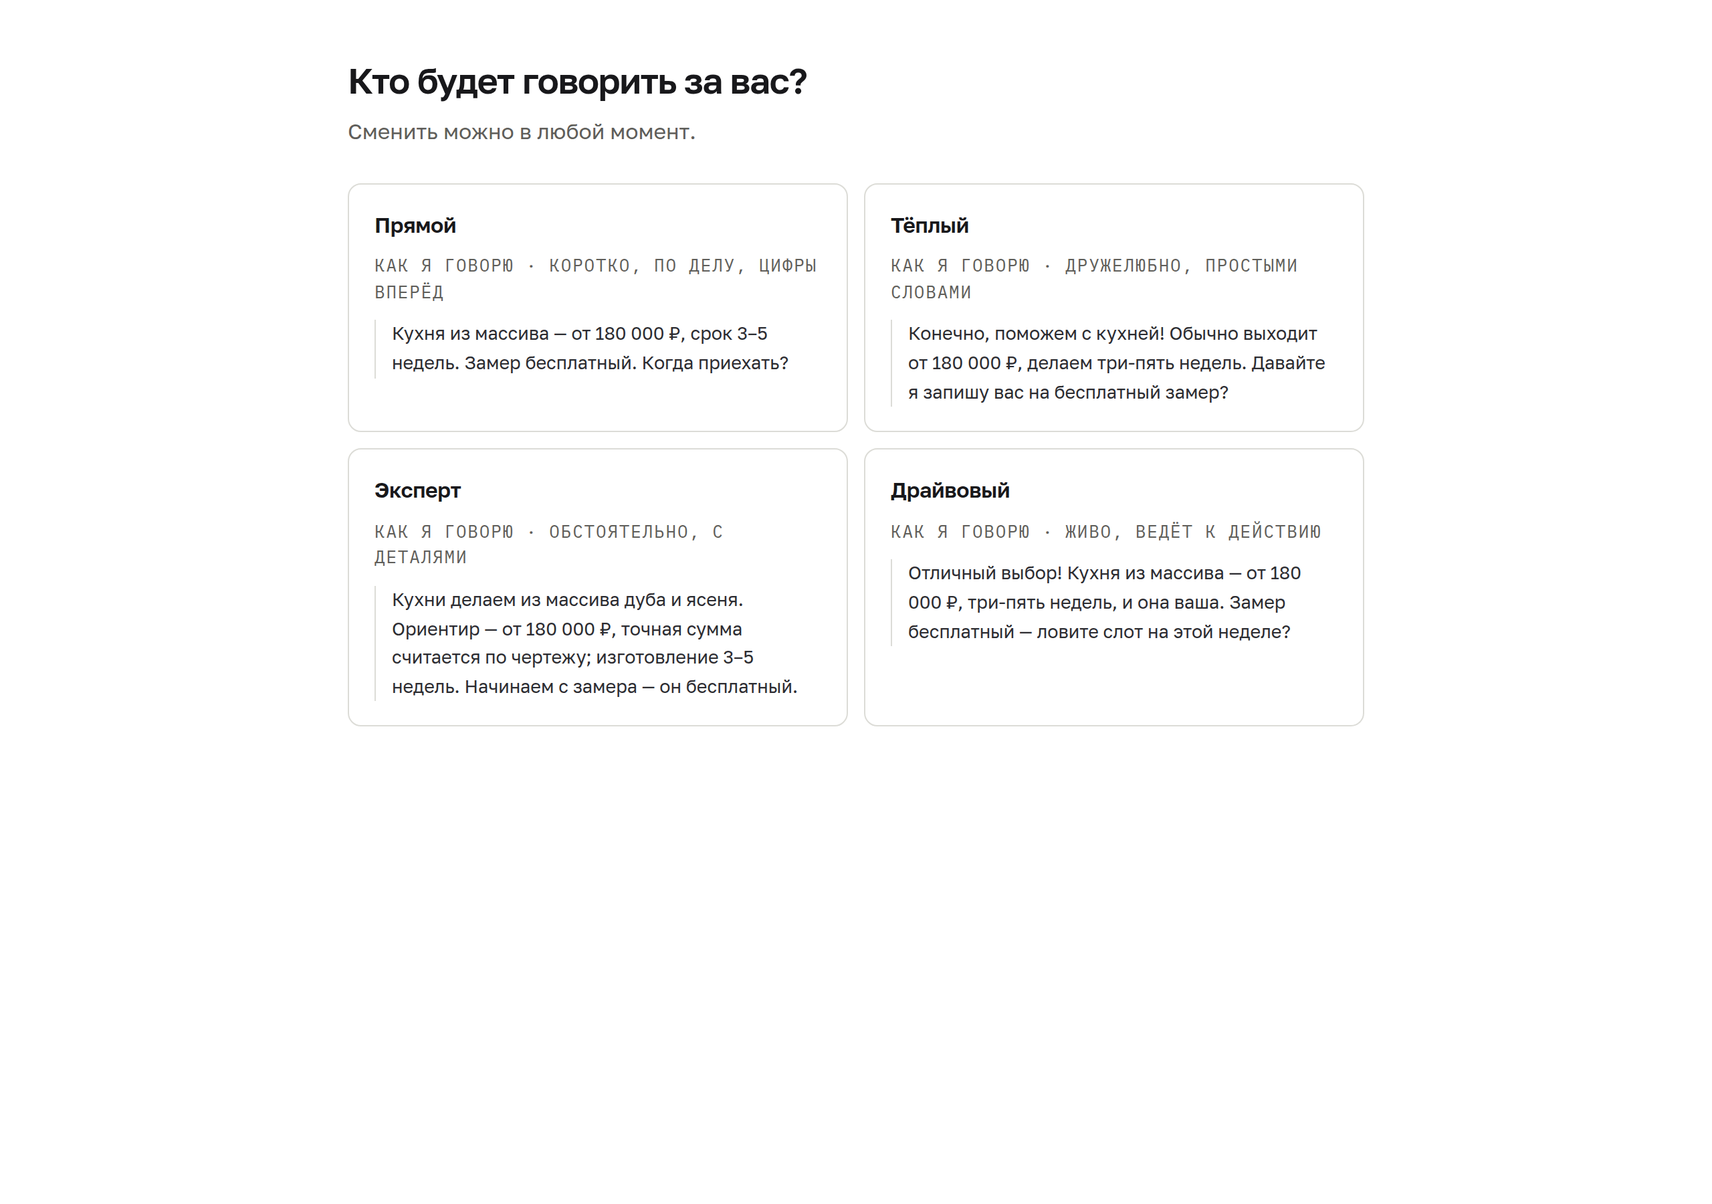
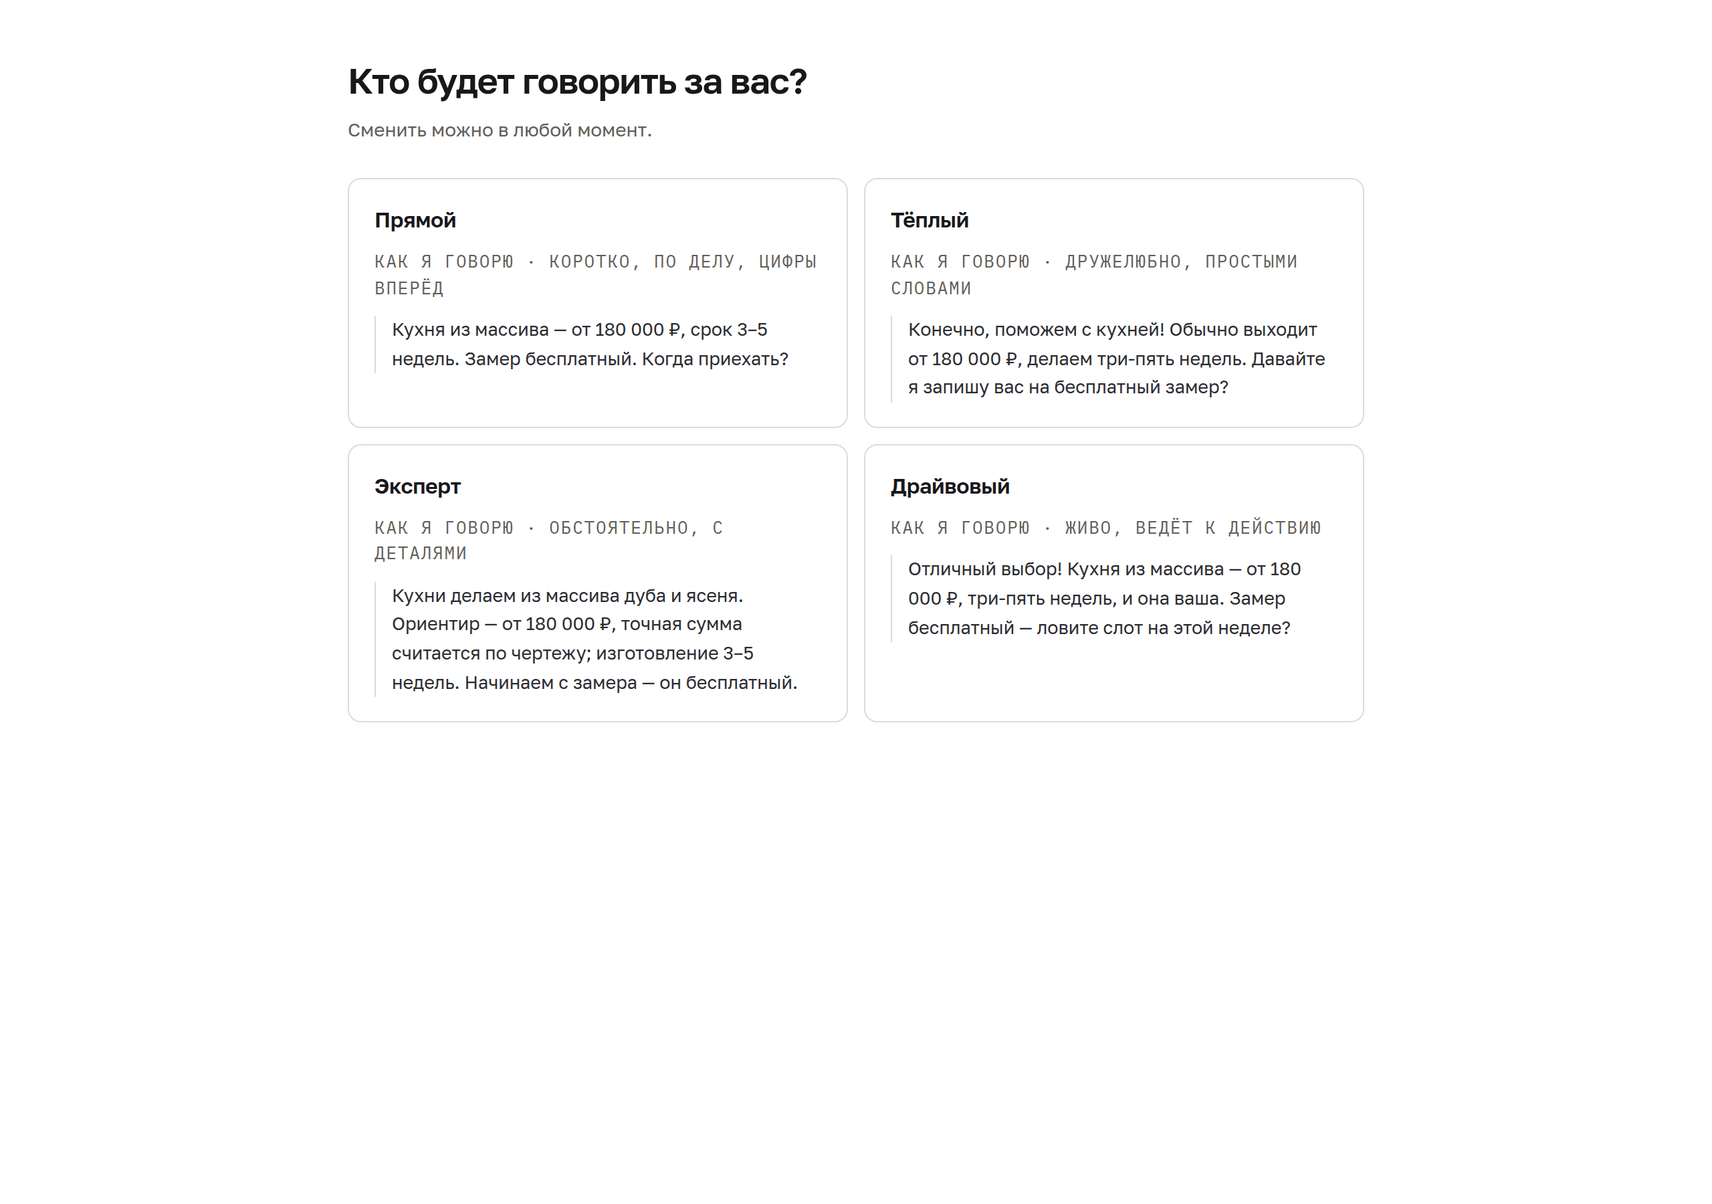
Аудит прода: 26 пунктов одним заходом
Сквозные: порог 40px задан каждому контролу отдельно — круглая кнопка снова
круг 40×40, «повторить» и «Скопировать» держат форму макета, chip-test
получил display; серая лестница развёрнута обратно в четыре ступени;
волоски подтянуты к макету (#E6E6E1/#DCDCD7/#CECEC9); логотип 12.5px.

/start: подпись под заголовком 14px; карточка тона — кнопка с видимым
фокусом, экран проходим с клавиатуры; лента разговора прижата к низу —
короткий диалог стоит над полем, а не висит в пустоте.

Паспорт: нативный select заменён ghost-кнопкой с выбором ключа текстовыми
чипами; карточка «Опубликовано» собрана из четырёх секций (статус,
тест-драйв, «раздайте ссылку» с адресом mono 17px и четырьмя каналами,
«что будет дальше»); у пометки источника точка-маркер и разведённые цвета;
пробел стал строкой с тегом-меткой; зона публикации — кнопка крупнее и в
одну строку с подписью; шапка без лишнего волоска, подзаголовок 52ch.

Чат: чипы приходят с каждым ответом, а не только с приветствием; сбой сети
не стирает пузырь — под ним «Не отправилось · повторить»; карточка контакта
начинается с обещания из факта agent.cta; «контакт передан» — кикером с
полным текстом; плашка лимита громче; золото .ai в шапке.

/gb-debug: мобильные карточки вместо семиколоночной таблицы (горизонтального
скролла нет); факты контекста — mono-чипы с ключами вместо числа;
tabular-nums на счётчиках; пульс у строки обновления; gbfade на вход строки;
заголовки и формат чисел по канону.
[…]

Changed region(s): [[0.2188, 0.1556, 0.7812, 0.5911], [0.2188, 0.1556, 0.4688, 0.3111], [0.1875, 0.0933, 0.4062, 0.1244]]

diff --git a/audit/latest.md b/audit/latest.md
@@ -1,0 +1,92 @@
+# Вердикт-лист по аудиту прода · 01.08
+
+Аудит от 31.07, 35 пунктов. Работа шла по разделу «Порядок работ» (01–04);
+блок 05 — вопросы владельцу, собраны внизу. Коммит с правками — «Аудит
+прода: 26 пунктов одним заходом» в `gb-agent` (далее — «коммит аудита»).
+Скрины всех экранов после правок — в `shots/`, кегли на каждом промерены
+браузером.
+
+## Сквозные
+
+| № | Пункт | Вердикт |
+|---|---|---|
+| A1 | порог 40px ломает контролы | **исправлено · коммит аудита** — общий селектор снят; `.send-round` 40×40 (круг остался кругом), «повторить» и «Скопировать» держат форму и добирают зону паддингом, `.btn-skip` в списке, `.chip-test` получил `display:inline-flex` |
+| A2 | серая лестница схлопнулась | **исправлено · коммит аудита** — `--text-mute` разведён (#66655F), «с сайта» #5F5E5A / «сказали вы» #6E6D68, лестница снова из четырёх ступеней |
+| A3 | волоски светлее макета | **исправлено · коммит аудита** — `--hair` #E6E6E1, `--bd-card` #DCDCD7, `--bd-control` #CECEC9; C3 и C5 закрылись этим же |
+| A4 | логотип 13.5 вместо 12.5 | **исправлено · коммит аудита** — 12.5px/500; проверка кеглей исключает логотип из порога 13px осознанно |
+| A5 | scrollIntoView | **исправлено · предыдущий коммит** (фикс автоскролла): ref на саму ленту, `el.scrollTop = el.scrollHeight`, чат-экраны прижаты к вьюпорту — готово к виджету. Проверено браузером на длинном диалоге |
+
+## /start · выбор тона
+
+| № | Пункт | Вердикт |
+|---|---|---|
+| B1 | подстрока 16px | **исправлено · коммит аудита** — 14px, `--text-2` |
+| B2 | карточка тона не с клавиатуры | **исправлено · коммит аудита** — `<button type="button">`, вид тот же, фокус `outline: 2px solid #3450C4; offset 2px` |
+| B3 | блок незаконченной карточки не нарисован | **вопрос владельцу** — где показывать: над выбором тона (рекомендация дизайнера) или снизу. Код готов принять любой ответ |
+
+## /start · разговор
+
+| № | Пункт | Вердикт |
+|---|---|---|
+| C1 | лента не прижата к низу | **исправлено · коммит аудита** — колонке `min-height:100%` + `justify-content:flex-end`; короткий разговор стоит над полем |
+| C2 | «Проверить агента» выпадает из ряда | **исправлено · коммит аудита** — `display:inline-flex; align-items:center` |
+| C3 | граница дока и трек прогресса | **исправлено** через A3 (токены) |
+| C4 | чипсы бледнее макета | **исправлено · коммит аудита** — бордер #CECEC9, текст #2C2C31 |
+| C5 | волосок шапки, пузырь, fail-line | **исправлено** — `.hair-v` через `--bd-card` #DCDCD7, `--bd-user` #E2E2DD (регистр причёсан), `.fail-line` #6F5416 |
+
+## Паспорт
+
+| № | Пункт | Вердикт |
+|---|---|---|
+| D1 | нативный select «Добавить» | **исправлено · коммит аудита** — ghost-кнопка; группа с одним ключом добавляет сразу, с несколькими — раскрывает выбор текстовыми чипами (не нативный select). Если дизайнер нарисует свой выбор ключа — заменю на его вёрстку |
+| D2 | карточка «Опубликовано» — четверть | **исправлено · коммит аудита** — четыре секции с волосками: статус · тест-драйв (текст аудита дословно) · «раздайте ссылку» (адрес mono 17px, «Скопировать», четыре канала дословно) · «что будет дальше» (три строки за левым волоском). Тексты «что будет дальше» написаны по описанию аудита — дизайнеру сверить формулировки |
+| D3 | нет точки-маркера источника | **исправлено · коммит аудита** — точка 5px в цвет пометки, `display:flex; gap:5px` |
+| D4 | значение факта 17px | **спорно** — владелец в задании от 31.07 явно попросил «значения фактов в паспорте 17px»; аудит предлагает 14.5 или пересчёт всей шкалы. Оставлено 17px до решения владельца с дизайнером |
+| D5 | подзаголовок на всю колонку | **исправлено · коммит аудита** — `max-width:52ch`, `margin-top:9px` |
+| D6 | лишний волосок под шапкой | **исправлено · коммит аудита** — граница снята; отступы страницы 20/22 уже стояли |
+| D7 | карточка-пробел в столбик | **исправлено · коммит аудита** — строка `space-between`, тег uppercase + трекинг .08em, бордер #E6E6E1, паддинг 12/14 |
+| D8 | зона публикации | **исправлено · коммит аудита** — кнопка и подпись в одну строку, кнопка 12/24 и 14px, отступы 40/20 |
+| D9 | «Удалить» не нарисована | **вопрос владельцу** — удалять факт совсем или очищать в пробел (безопаснее, уже вписано в систему). До ответа кнопка остаётся как есть |
+
+## Чат агента
+
+| № | Пункт | Вердикт |
+|---|---|---|
+| E1 | чипы выбрасываются после приветствия | **исправлено · коммит аудита** — `chips: data.chips` в каждом сообщении агента |
+| E2 | сбой сети стирает реплику | **исправлено · коммит аудита** — пузырь остаётся, под ним «Не отправилось · повторить»; повтор не плодит второй пузырь и не задваивает счётчик |
+| E3 | карточка контакта без обещания | **исправлено · коммит аудита** — строка-обещание 13.5px из факта карточки `agent.cta` (не зашита; нет факта — строки нет, честно), primary на всю ширину, mono-подпись по центру |
+| E4 | «контакт передан» | **исправлено · коммит аудита** — `.kicker`, линейка 1px, средняя часть текста вернулась (подставляется из `agent.cta`, фолбэк «он свяжется с вами») |
+| E5 | плашка лимита тише | **исправлено · коммит аудита** — 14px основным цветом, радиус 10, паддинг 15/17 |
+| E6 | золото «.ai» и мелочи шапки | **исправлено · коммит аудита** — .ai золотом в шапке чата, кикер предпросмотра #8A6A1F, letter-spacing заголовка, ссылка футера видима |
+| E7 | виджет-размещение | **вопрос владельцу** — нужен срок. A5 (прокрутка) уже готов под виджет |
+
+## /gb-debug
+
+| № | Пункт | Вердикт |
+|---|---|---|
+| F1 | мобильной версии нет | **исправлено · коммит аудита** — `.tm-desktop`/`.tm-mobile` применены; строка ленты и лид на узком экране — карточка по раскладке аудита, разворот тот же, горизонтального скролла нет |
+| F2 | «фактов: 6» вместо списка | **исправлено · коммит аудита** — mono-чипы с ключами фактов из `t.retrieved`, в строку с переносом |
+| F3 | счётчики скачут | **исправлено · коммит аудита** — `font-variant-numeric: tabular-nums` |
+| F4 | нет пульса у «обновляется каждые 5 с» | **исправлено · коммит аудита** — `.dot-live` мигает, на паузе серая и статичная |
+| F5 | строки рывком, заголовки, формат | **исправлено · коммит аудита** — `gbfade` на вход строки; заголовки «тип ответа / вердикт / стоимость и время»; формат «0,4 ₽ · 1 240» с неразрывным пробелом |
+| F6 | «сессия» вместо «бизнес» | **вопрос владельцу** — экран сейчас фактически на один бизнес; сказать, так ли задумано (тогда имя бизнеса поставлю в шапку экрана) или телеметрия нужна по всем |
+
+## Вопросы владельцу (блок 05 аудита)
+
+1. **B3** — блок «незаконченная карточка»: над выбором тона (рекомендация дизайнера) или снизу?
+2. **D9** — удалять факт совсем или очищать в пробел (безопаснее)?
+3. **E7** — срок по виджету 392×560: это половина ценности продукта, макет готов.
+4. **F6** — телеметрия на один бизнес (имя в шапку) или на все?
+5. **Лендинг** — главная в объёме или вычёркивается из пакета? Сейчас `/` ведёт на `/start`.
+6. **D4** — значения фактов: оставить 17px (ваше задание) или 14.5px с пересчётом шкалы (предложение дизайнера)?
+
+## Проверки после правок
+
+- 146 юнит-тестов зелёные; мок-прогон e2e зелёный целиком.
+- Скрины пяти экранов после правок — `shots/01…05`, кегли промерены:
+  текста мельче 13px нет (единственное исключение — логотип 12.5px, по A4).
+- Автоскролл перепроверен браузером после C1: прижатие, отлистывание,
+  возврат — всё зелёное.
+
+Деплой на Vercel уходит этим же пушем — ссылка для сверки дизайнером:
+https://gb-agent-git-main-gb16.vercel.app/start
